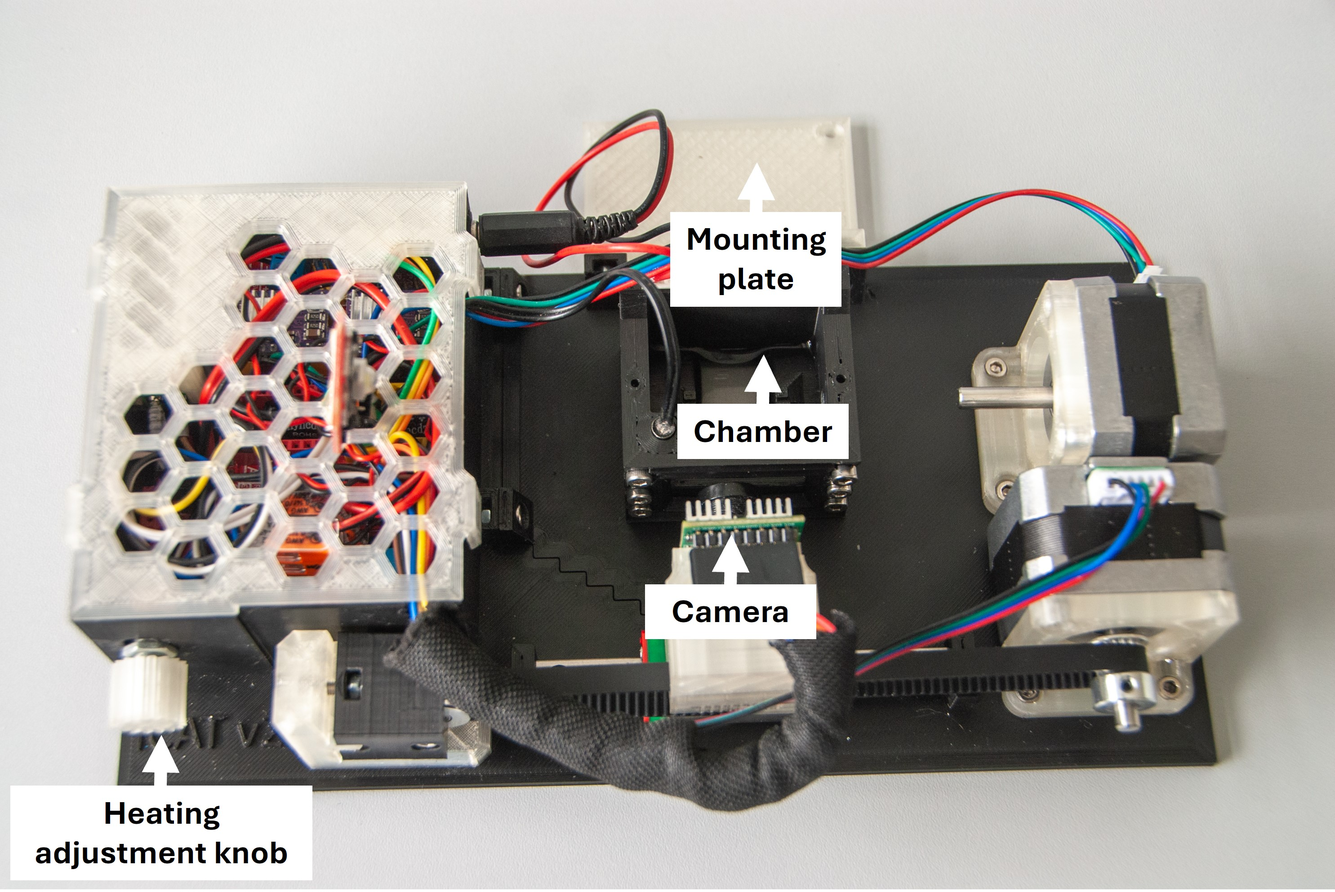
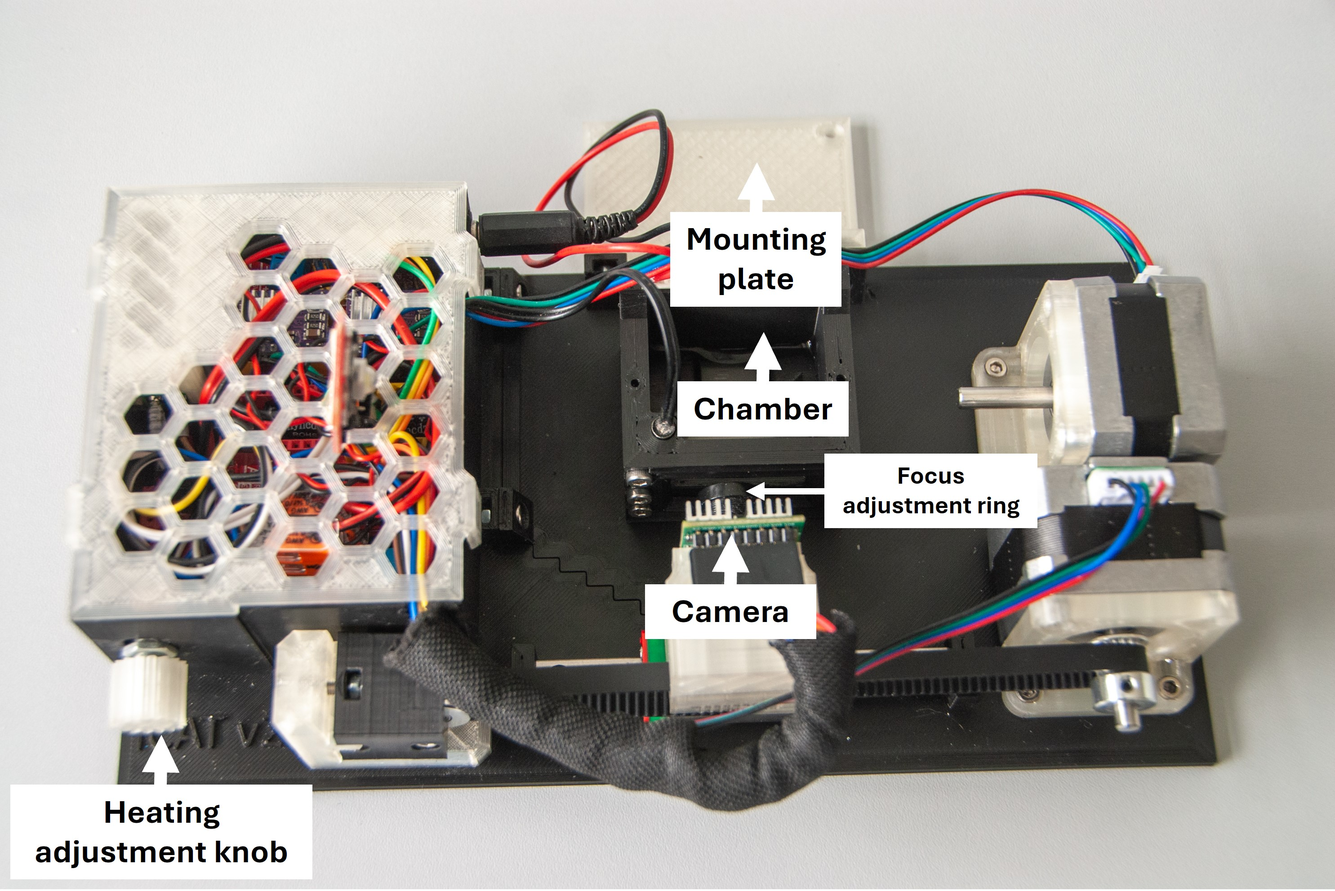
update

diff --git a/README.md b/README.md
@@ -150,7 +150,7 @@ To install the 'cover' on the sample 'chamber', follow these steps: <br>
 3. Secure the attached cover glass with eight M3x4 screws, and tighten the screws gently.
 ![alt text](support/media/pics/iCat-38.jpg)
 *NOTE: After the initial assembly, test the chamber by filling it with water and letting it stand overnight. There should be no leaks.* <br><br>
-4. Slide the Peltier element to the back of the chamber. Place the chamber on the 'base', and connect it to the female DC connector on the side. All iCat connectors are depicted below.
+4. Slide the Peltier element to the back of the chamber. Place the chamber on the 'base', and connect it to the female DC connector on the side. Focus the camera using the adjustment ring. All iCat connectors are depicted below.
 ![alt text](support/media/pics/iCat-21a.jpg)
 ![alt text](support/media/pics/iCat-20a.jpg) <br><br>
 
